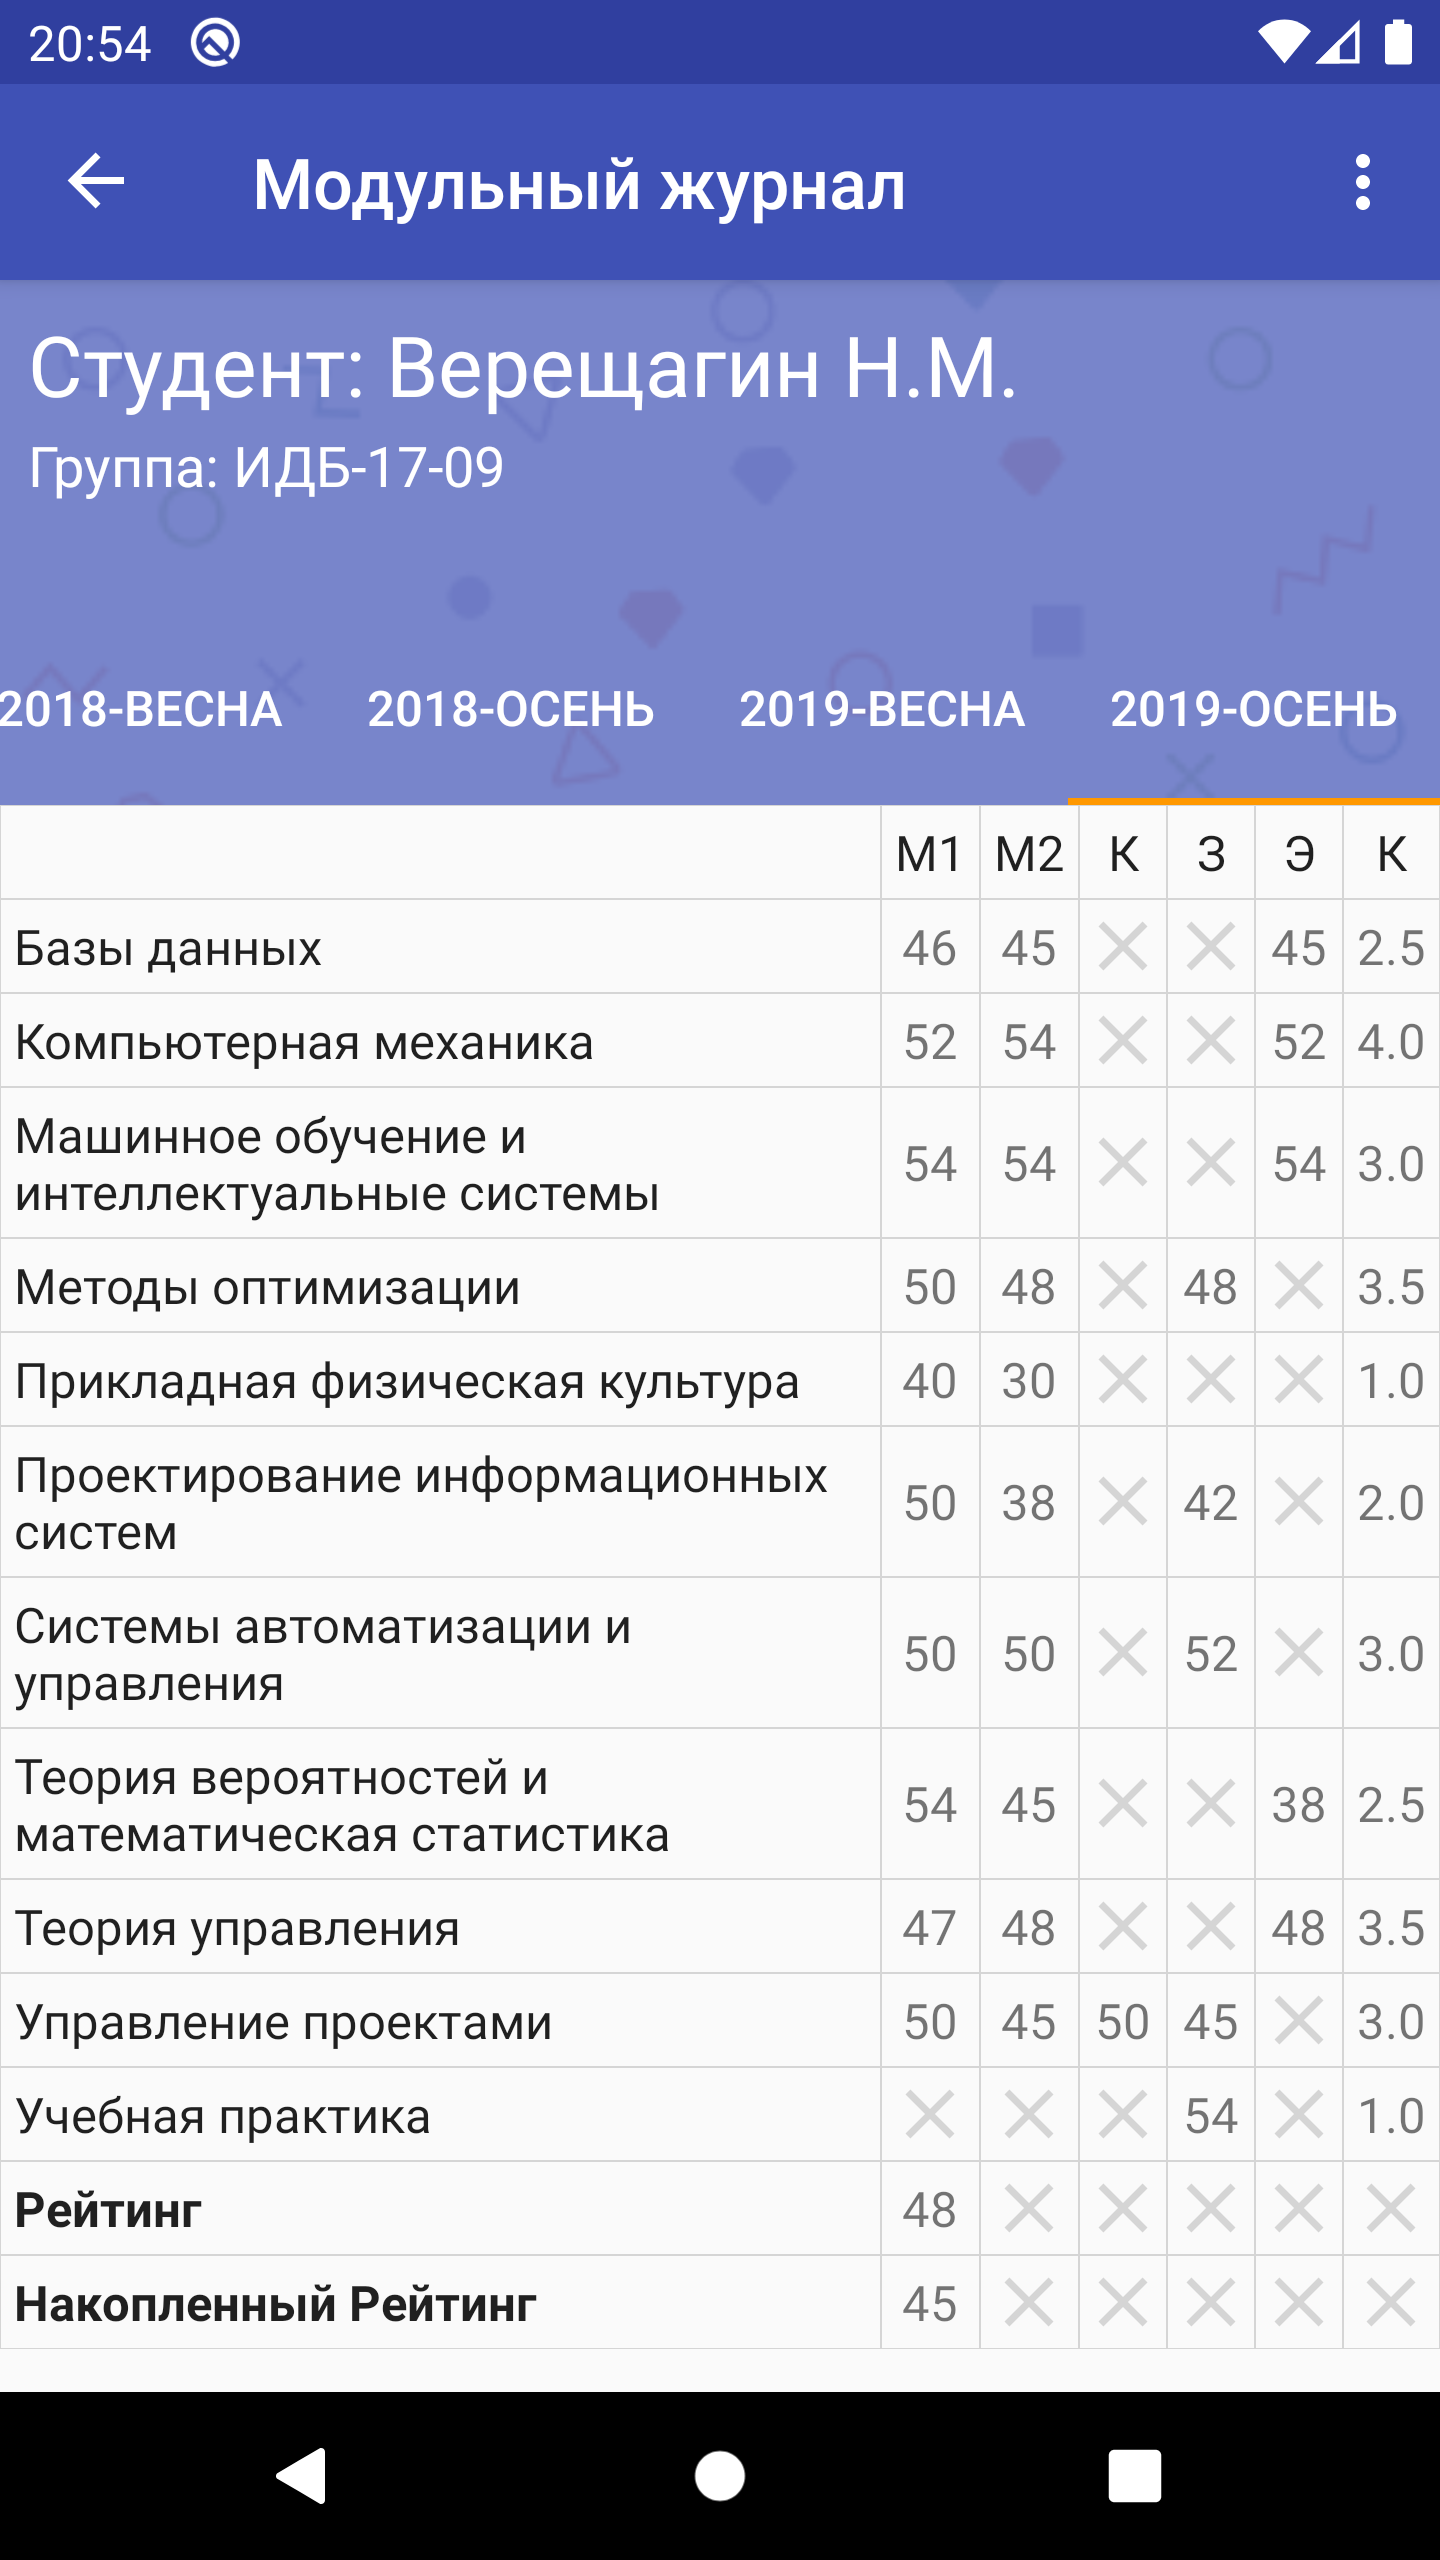
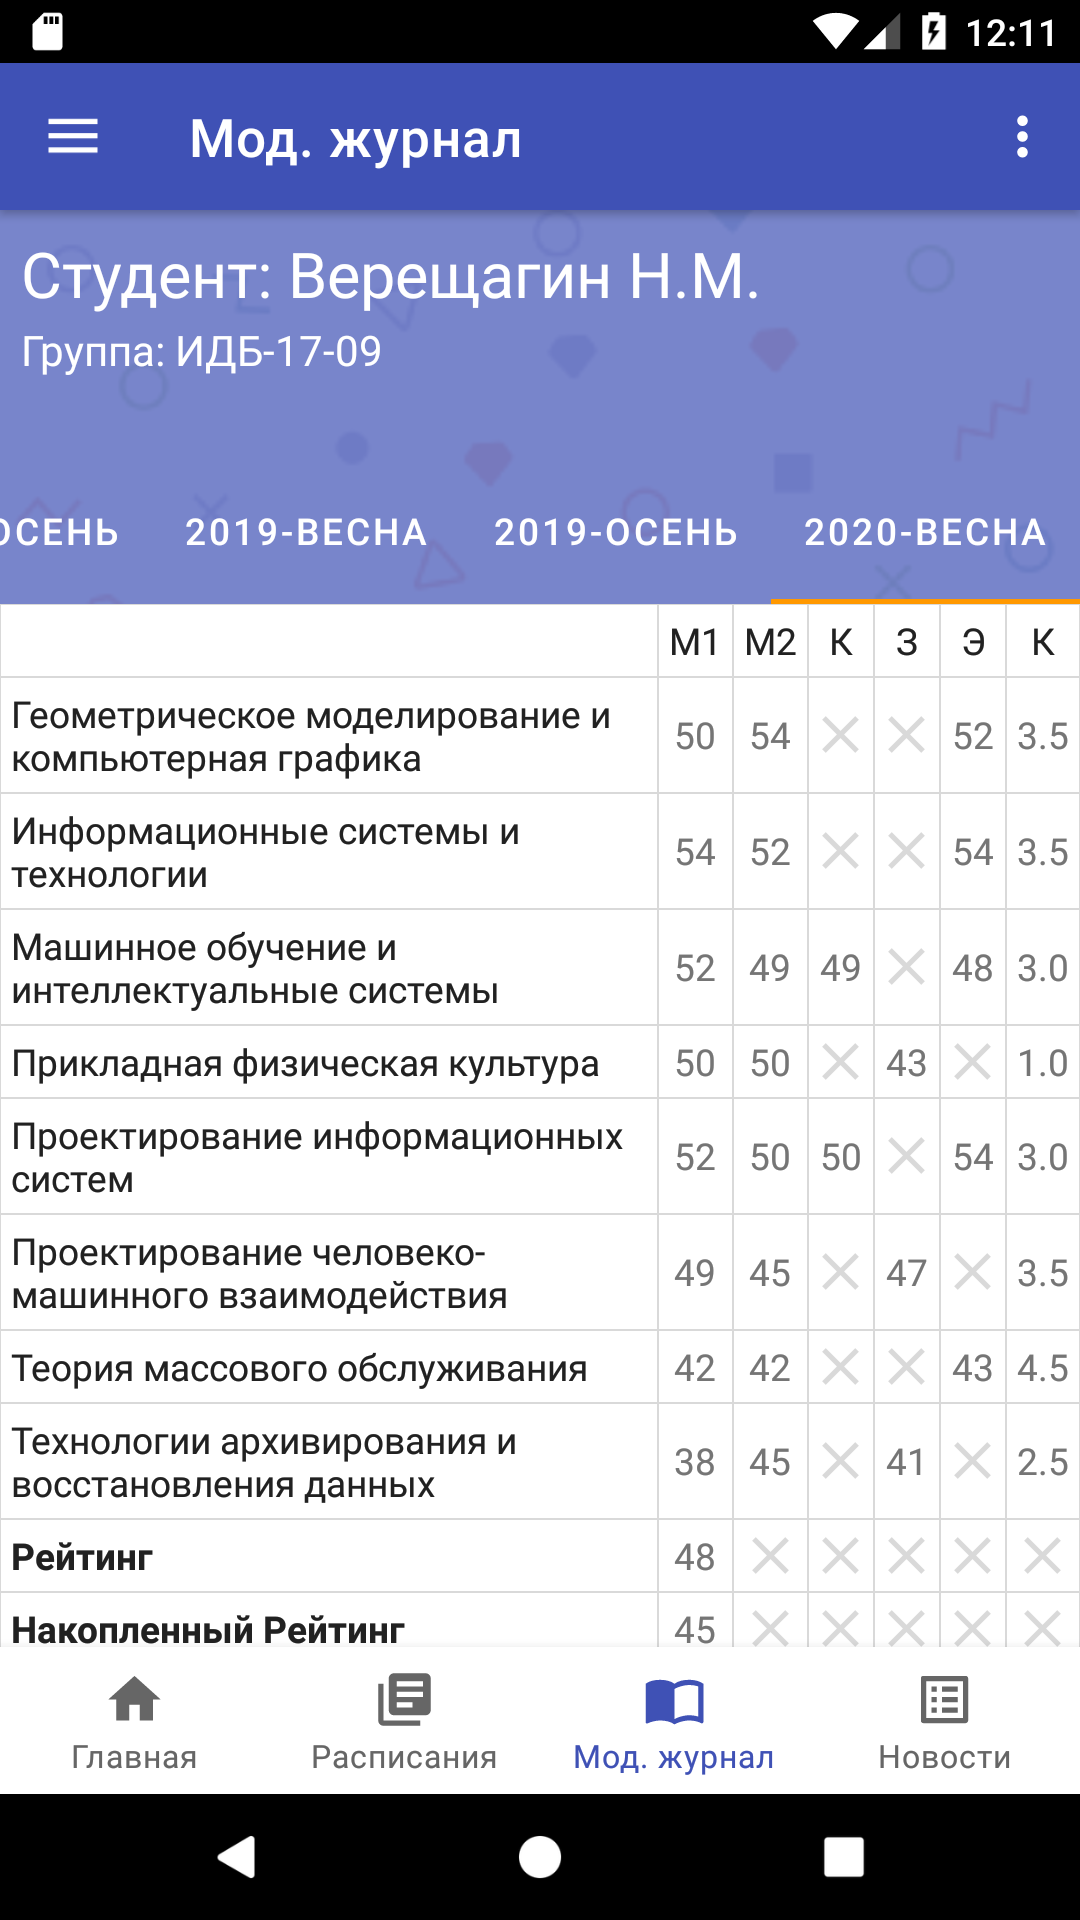
release 0.4.0

diff --git a/README.md b/README.md
@@ -16,11 +16,14 @@
 ProjectPepega (aka Stankin Schedule) - приложение разработанное для студентов МГТУ "СТАНКИН" для удобного и комфортного ведения расписания, просмотра модульного журнала.
 
 ## Скачивание
-Текущая версия приложения: [project-pepega-0.2.4.apk](https://github.com/Nikololoshka/ProjectPepega/releases/download/0.2.4/project-pepega-0.2.4.apk)
+Текущая версия приложения: 0.4.0
+
+Последняя Github версия приложения: [project-pepega-0.2.4.apk](https://github.com/Nikololoshka/ProjectPepega/releases/download/0.2.4/project-pepega-0.2.4.apk)
 
 **Changelog**
 ```
-- Обновлено расписание.
+- Переделан дезайн приложения;
+- Исправлены ошибки при обновлении новостей. 
 ```
 
 ## Особенности
@@ -28,7 +31,7 @@ ProjectPepega (aka Stankin Schedule) - приложение разработан
 - [X] Расписание (создание, просмотр);
 - [X] Виджет с расписанием;
 - [X] Модульный журнал;
-- [ ] Новости университета и деканата;
+- [X] Новости университета и деканата;
 - [ ] Карта университета;
 - [ ] Справка по университету;
 
